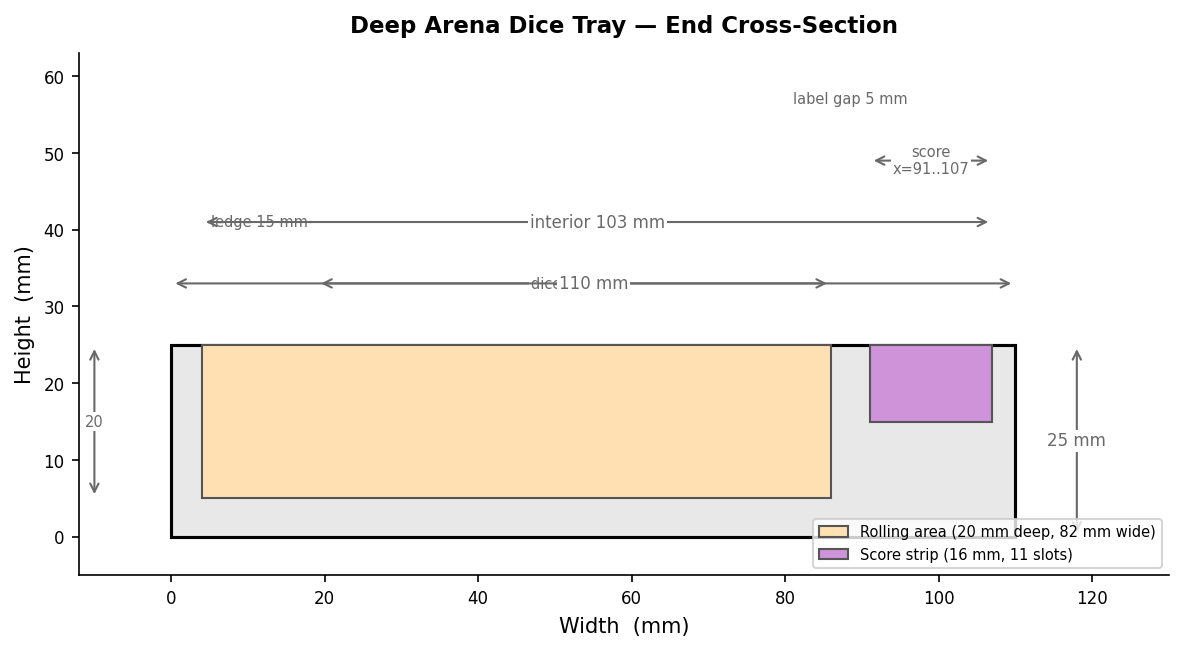
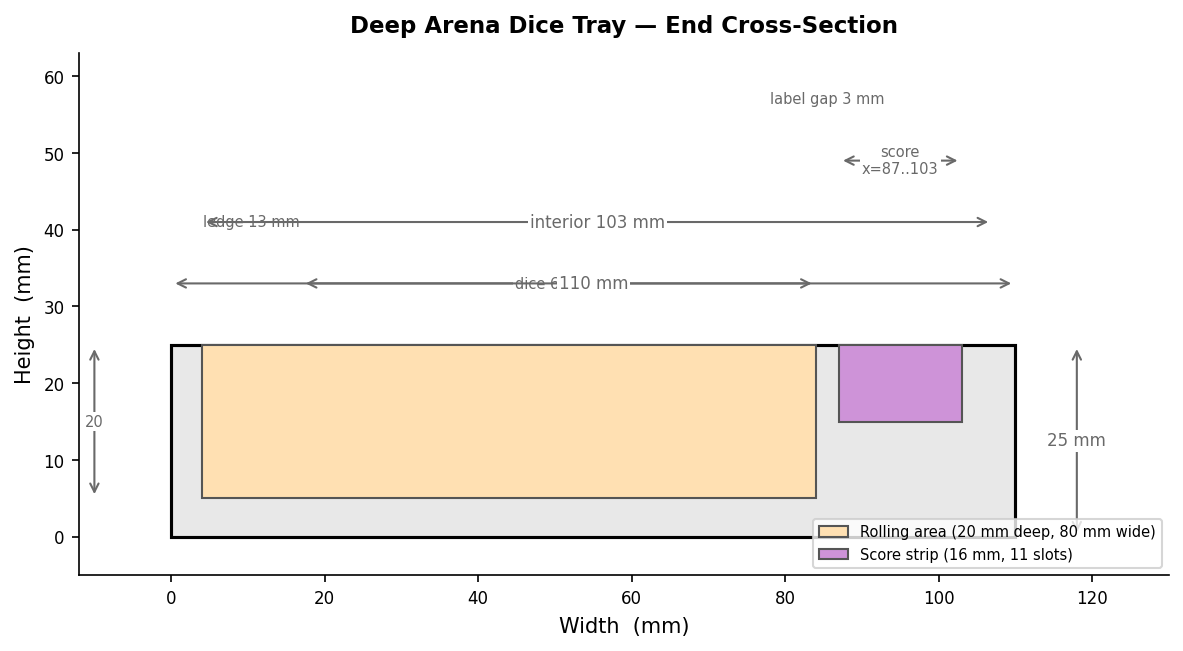
v3: Reduce crit label ledge by 2mm, add symmetrical score label ledge
- label_ledge: 15mm → 13mm (crit/normal label area)
- score_gap_w: 5mm → 3mm (space between dice and score strip)
- score_label_ledge: 4mm (new - label area on right side of score strip)
- Score strip x-position: 91mm → 87mm (shifted left)
- Layout: wall(4) + ledge(13) + dice(67) + gap(3) + score(16) + score_ledge(4) + rwall(3) = 110mm
- All tray depths remain 17mm, total depth 223mm
- Updated diagram generator to parse slot_d and score_label_ledge
- Regenerated all three version diagrams

diff --git a/wargaming/KT-dice-tray/v3-score-tracker/deep_arena_dice_tray.py b/wargaming/KT-dice-tray/v3-score-tracker/deep_arena_dice_tray.py
@@ -7,8 +7,8 @@ doc = App.newDocument("DeepArenaDiceTray_v3")
 # --- Dimensions ---
 width       = 110.0   # Fixed width (X axis)
 wall        = 4.0     # Left outer wall
-right_wall  = 3.0     # Right outer wall (thinner to fit score strip)
-label_ledge = 15.0    # P1-side ledge; reduced to preserve 110mm overall width
+right_wall  = 3.0     # Right outer wall
+label_ledge = 13.0    # P1-side label area (reduced from 15mm for more score label space)
 
 # Die slot geometry
 die_slot_w  = 16.0    # Each die slot width — fits 16mm dice
@@ -32,15 +32,16 @@ n_score      = 12
 score_slot_d = 17.0    # 16mm dice + 0.5mm clearance each side (matches slot_d)
 score_full_depth = True
 score_buffer = 0.0     # No buffer: crits rows align directly with score rows
+score_label_ledge = 4.0 # Label area on right side of score strip
 
-# X layout: wall(4) + ledge(15) + dice(67) + label-gap(5) + score(16) + r_wall(3) = 110
+# X layout: wall(4) + ledge(13) + dice(67) + gap(3) + score(16) + score_ledge(4) + r_wall(3) = 110
 dice_w       = n_dice * die_slot_w + (n_dice - 1) * slot_div   # 4*16 + 3*1 = 67mm
-score_gap_w  = 5.0   # Clearance between dice area and score strip for labels
-score_strip_x = wall + label_ledge + dice_w + score_gap_w        # x = 91mm
-# score strip occupies x=91..107, right wall x=107..110
+score_gap_w  = 3.0   # Clearance between dice area and score strip (reduced from 5)
+score_strip_x = wall + label_ledge + dice_w + score_gap_w        # x = 87mm
+# score strip occupies x=87..103, score label x=103..107, right wall x=107..110
 
-# Rolling area: from x=wall to just before the label clearance gap
-roll_w = label_ledge + dice_w   # 15 + 67 = 82mm (x=4..86)
+# Rolling area: from x=wall to just before the score gap
+roll_w = label_ledge + dice_w   # 13 + 67 = 80mm (x=4..83)
 
 # Score-tracker span drives overall tray depth.
 # 12*17 + 11*1 = 215mm score span; + 2*4mm walls = 223mm total.

diff --git a/wargaming/KT-dice-tray/generate_diagrams.py b/wargaming/KT-dice-tray/generate_diagrams.py
@@ -38,6 +38,7 @@ base_h     = 25.0
 
 # ── Read optional overrides from the macro in the target folder ───────────────
 label_ledge   = 0.0
+score_label_ledge = 0.0  # label area on right side of score strip
 score_d       = 0.0    # >0 → old v3-style score rows at each end
 die_slot_w    = 16.0
 slot_div      = 1.0
@@ -56,6 +57,8 @@ if os.path.exists(macro_path):
         for _line in _f:
             for _pat, _key in [
                 (r"label_ledge\s*=\s*([0-9.]+)",   "label_ledge"),
+                (r"score_label_ledge\s*=\s*([0-9.]+)",   "score_label_ledge"),
+                (r"slot_d\s*=\s*([0-9.]+)",        "slot_d"),
                 (r"score_d\s*=\s*([0-9.]+)",       "score_d"),
                 (r"die_slot_w\s*=\s*([0-9.]+)",    "die_slot_w"),
                 (r"slot_div\s*=\s*([0-9.]+)",       "slot_div"),
